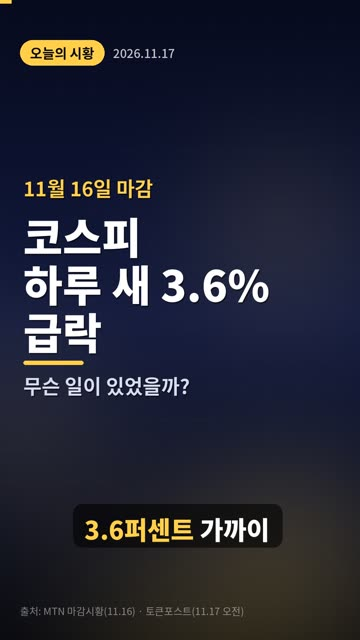
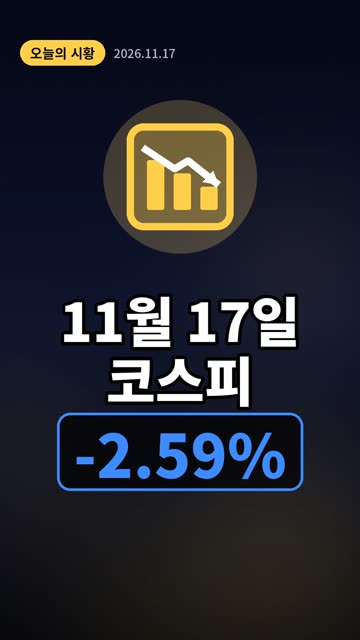
정보쇼츠 추가: 코스피 -2.59% 급락, 4거래일 연속 하락 | 11월 17일 1분 시황

diff --git a/index.html b/index.html
@@ -25,7 +25,7 @@ details pre{white-space:pre-wrap;font:inherit;background:#0a0d18;padding:10px;bo
 <p class="s">매일 오후 5시쯤 새 쇼츠가 자동으로 올라옵니다. ⬇ 영상 받기 → 파일에 저장 → 사진에 저장 → YouTube 앱에서 업로드 → 📋 제목·설명·태그 붙여 넣기</p>
 <div class="tabs" id="tabs"></div><div id="list"></div><div class="toast" id="toast">복사됨 ✓</div></main>
 <script>
-const DATA=[{"cat": "life", "name": "life_phishing_20261117", "title": "보이스피싱 당했다면 이 순서대로! 112 → 지급정지 → 1332", "desc": "돈을 보냈거나 링크를 눌렀다면 바로 해야 할 일을 순서대로 정리했습니다.\n\n📌 출처\n- 토스뱅크, 「경찰청 보이스피싱 대처 매뉴얼」(경찰청·전기통신금융사기 통합대응단·금융감독원 자료 참고) https://www.tossbank.com/articles/police-voice-phishing-manual\n\n이 영상의 음성은 AI 음성(Microsoft 신경망 음성)이며, 화면과 배경음악은 채널이 직접 프로그램으로 만들었습니다.\n\n#보이스피싱 #보이스피싱대처 #지급정지 #스미싱 #명의도용 #생활꿀팁 #금융사기 #112", "tags": "보이스피싱, 보이스피싱 대처, 지급정지, 스미싱, 명의도용, 생활 꿀팁, 금융 사기, 112, 1332, 쇼츠", "date": "2026-11-17", "sec": 57.3, "mb": 8.9, "url": "https://github.com/yunsub2002/yscominformation/releases/download/info-20261117-1607/life_phishing_20261117.mp4", "thumb": "thumbs/life_phishing_20261117_thumb.jpg", "thumb_url": "https://github.com/yunsub2002/yscominformation/releases/download/info-20261117-1607/life_phishing_20261117_thumb.jpg", "stock": null}, {"cat": "stock", "name": "stock_000660_20261117", "title": "SK하이닉스 주가, 지금 어디쯤? 6개월 -44.5% | 종목 분석", "desc": "SK하이닉스의 최근 주가 흐름과 기간별 수익률, 가치 지표를 숫자로만 정리했습니다. (11월 17일 종가 기준)\n\n📌 출처\n- 네이버 증권 SK하이닉스 https://m.stock.naver.com/domestic/stock/000660/total\n\n⚠ 특정 종목의 매수·매도를 권하는 영상이 아닙니다. 투자 판단과 책임은 본인에게 있습니다.\n\n이 영상의 음성은 AI 음성(Microsoft 신경망 음성)이며, 화면과 배경음악은 채널이 직접 프로그램으로 만들었습니다.\n\n#SK하이닉스 #SK하이닉스주가 #SK하이닉스주식 #종목분석 #주식 #주가 #코스피 #주식공부", "tags": "SK하이닉스, SK하이닉스 주가, SK하이닉스 주식, 종목 분석, 주식, 주가, 코스피, 주식 공부, 재테크, 쇼츠", "date": "2026-11-17", "sec": 55.9, "mb": 8.2, "url": "https://github.com/yunsub2002/yscominformation/releases/download/info-20261117-1457/stock_000660_20261117.mp4", "thumb": "thumbs/stock_000660_20261117_thumb.jpg", "thumb_url": "https://github.com/yunsub2002/yscominformation/releases/download/info-20261117-1457/stock_000660_20261117_thumb.jpg", "stock": "000660"}, {"cat": "market", "name": "market_20261117", "title": "코스피 하루 만에 3.6% 급락, 이유 3가지 | 11월 17일 시황", "desc": "11월 16일 국내 증시 마감과 오늘 아침 코인 시세를 1분 안에 정리했습니다.\n\n📌 출처\n- MTN 머니투데이방송, 「AI 경계심에 국내 증시 흔들…코스피 3.59% 내린 5100.50 마감」(2026.11.16) https://news.mtn.co.kr/article/2026111616042473944\n- 토큰포스트, 「[아침 시황] 비트코인 8,922만원…」(2026.11.17 07:30) https://www.tokenpost.kr/news/cryptocurrency/439421\n\n⚠ 이 영상은 정보 제공용이며 투자 권유가 아닙니다. 투자 판단과 책임은 본인에게 있습니다.\n\n이 영상의 음성은 AI 음성(Microsoft 신경망 음성)이며, 화면과 배경음악은 채널이 직접 프로그램으로 만들었습니다.\n\n#코스피 #코스닥 #주식시황 #오늘의증시 #삼성전자 #SK하이닉스 #비트코인 #코인시세", "tags": "코스피, 코스닥, 주식 시황, 오늘의 증시, 삼성전자, SK하이닉스, 비트코인, 코인 시세, 엔비디아, 쇼츠", "date": "2026-11-17", "sec": 59.7, "mb": 8.8, "url": "https://github.com/yunsub2002/yscominformation/releases/download/info-20261117-seed/market_20261117.mp4", "thumb": "thumbs/market_20261117_thumb.jpg", "thumb_url": "https://github.com/yunsub2002/yscominformation/releases/download/info-20261117-seed/market_20261117_thumb.jpg", "stock": null}, {"cat": "stock", "name": "stock_samsung_20261117", "title": "삼성전자 분기 영업이익 107조, 그런데 주가는 왜? | 종목 분석", "desc": "삼성전자 2026년 3분기 실적과 최근 주가 흐름, 체크 포인트를 공개 자료로 정리했습니다.\n\n📌 출처\n- 삼성전자 뉴스룸, 「삼성전자, 2026년 3분기 실적 발표」(2026.10.29) https://news.samsung.com/kr/삼성전자-2026년-3분기-실적-발표\n- MTN 머니투데이방송, 「AI 경계심에 국내 증시 흔들…」(2026.11.16) https://news.mtn.co.kr/article/2026111616042473944\n\n⚠ 특정 종목의 매수·매도를 권하는 영상이 아닙니다. 투자 판단과 책임은 본인에게 있습니다.\n\n이 영상의 음성은 AI 음성(Microsoft 신경망 음성)이며, 화면과 배경음악은 채널이 직접 프로그램으로 만들었습니다.\n\n#삼성전자 #삼성전자주가 #삼성전자실적 #반도체 #HBM4 #종목분석 #주식 #배당", "tags": "삼성전자, 삼성전자 주가, 삼성전자 실적, 반도체, HBM4, 종목 분석, 주식, 배당, 코스피, 쇼츠", "date": "2026-11-17", "sec": 50.8, "mb": 7.0, "url": "https://github.com/yunsub2002/yscominformation/releases/download/info-20261117-seed/stock_samsung_20261117.mp4", "thumb": "thumbs/stock_samsung_20261117_thumb.jpg", "thumb_url": "https://github.com/yunsub2002/yscominformation/releases/download/info-20261117-seed/stock_samsung_20261117_thumb.jpg", "stock": null}, {"cat": "politics", "name": "politics_budget_20261117", "title": "821조 내년 예산안, 지금 어디까지 왔나 | 정치 브리핑", "desc": "2027년도 정부 예산안의 규모, 국회 심사 일정, 핵심 쟁점과 여야 입장을 보도 내용 그대로 1분에 정리했습니다.\n\n📌 출처\n- 뉴시스, 「막 오른 821조 예산 격돌…與 \"담대한 미래 투자\" 野 \"국가 채무 낮춰야\"」(2026.11.02) https://newsis.com/view/NISX20261101_0003849921\n- 뉴스1, 「예결위, 비경제부처 심사 이틀째…16일부터 예산소위 가동」(2026.11.12) https://www.news1.kr/politics/assembly/6350850\n\n⚠ 특정 정당을 지지하거나 반대하지 않으며, 보도된 사실과 각 당의 공식 입장을 요약했습니다.\n\n이 영상의 음성은 AI 음성(Microsoft 신경망 음성)이며, 화면과 배경음악은 채널이 직접 프로그램으로 만들었습니다.\n\n#예산안 #2027예산 #국회 #예결위 #미래대응기금 #정치뉴스 #국회일정 #나라살림", "tags": "예산안, 2027 예산, 국회, 예결위, 미래대응기금, 정치 뉴스, 국회 일정, 나라살림, 시사, 쇼츠", "date": "2026-11-17", "sec": 56.8, "mb": 8.5, "url": "https://github.com/yunsub2002/yscominformation/releases/download/info-20261117-seed/politics_budget_20261117.mp4", "thumb": "thumbs/politics_budget_20261117_thumb.jpg", "thumb_url": "https://github.com/yunsub2002/yscominformation/releases/download/info-20261117-seed/politics_budget_20261117_thumb.jpg", "stock": null}, {"cat": "life", "name": "life_heating", "title": "난방비 아끼는 법 5가지 (정부 공식 팁)", "desc": "실내온도·외출 모드·내복·뽁뽁이·보일러 점검까지, 정부가 알려 준 난방비 절약법을 1분으로 정리했습니다.\n\n📌 출처\n- 대한민국 정책브리핑, 「알쏭달쏭 난방비 절약법 Q&A」 https://www.korea.kr/news/policyNewsView.do?newsId=148845570\n\n이 영상의 음성은 AI 음성(Microsoft 신경망 음성)이며, 화면과 배경음악은 채널이 직접 프로그램으로 만들었습니다.\n\n#난방비 #난방비절약 #겨울꿀팁 #생활꿀팁 #보일러 #뽁뽁이 #절약 #살림팁", "tags": "난방비, 난방비 절약, 겨울 꿀팁, 생활 꿀팁, 보일러, 뽁뽁이, 절약, 살림 팁, 관리비, 쇼츠", "date": "2026-11-17", "sec": 49.3, "mb": 6.4, "url": "https://github.com/yunsub2002/yscominformation/releases/download/info-20261117-seed/life_heating.mp4", "thumb": "thumbs/life_heating_thumb.jpg", "thumb_url": "https://github.com/yunsub2002/yscominformation/releases/download/info-20261117-seed/life_heating_thumb.jpg", "stock": null}],TABS=[["market", "오늘의 시황", "#ffcf4a"], ["stock", "종목 분석", "#4ab0ff"], ["life", "생활 꿀팁", "#2ee6a6"], ["politics", "정치 브리핑", "#b49cff"]];let cur='all';try{cur=localStorage.getItem('tab')||'all'}catch(e){}
+const DATA=[{"cat": "market", "name": "market_20261117", "title": "코스피 -2.59% 급락, 4거래일 연속 하락 | 11월 17일 1분 시황", "desc": "11월 17일 국내 증시 마감 숫자를 1분으로 정리했습니다. (지수·한 달 흐름·수급·대형주·환율·코인)\n\n📌 출처\n- 네이버 증권 (지수·투자자별 매매·환율·종목 시세) https://m.stock.naver.com\n- 업비트 (코인 시세, 전일 대비) https://upbit.com\n\n⚠ 정보 제공용 영상이며 투자 권유가 아닙니다. 투자 판단과 책임은 본인에게 있습니다.\n\n이 영상의 음성은 AI 음성(Microsoft 신경망 음성)이며, 화면과 배경음악은 채널이 직접 프로그램으로 만들었습니다.\n\n#코스피 #코스닥 #주식시황 #오늘의증시 #증시마감 #환율 #비트코인 #코인시세", "tags": "코스피, 코스닥, 주식 시황, 오늘의 증시, 증시 마감, 환율, 비트코인, 코인 시세, 주식, 쇼츠", "date": "2026-11-17", "sec": 57.3, "mb": 10.3, "url": "https://github.com/yunsub2002/yscominformation/releases/download/info-20261117-1803/market_20261117.mp4", "thumb": "thumbs/market_20261117_thumb.jpg", "thumb_url": "https://github.com/yunsub2002/yscominformation/releases/download/info-20261117-1803/market_20261117_thumb.jpg", "stock": null}, {"cat": "life", "name": "life_phishing_20261117", "title": "보이스피싱 당했다면 이 순서대로! 112 → 지급정지 → 1332", "desc": "돈을 보냈거나 링크를 눌렀다면 바로 해야 할 일을 순서대로 정리했습니다.\n\n📌 출처\n- 토스뱅크, 「경찰청 보이스피싱 대처 매뉴얼」(경찰청·전기통신금융사기 통합대응단·금융감독원 자료 참고) https://www.tossbank.com/articles/police-voice-phishing-manual\n\n이 영상의 음성은 AI 음성(Microsoft 신경망 음성)이며, 화면과 배경음악은 채널이 직접 프로그램으로 만들었습니다.\n\n#보이스피싱 #보이스피싱대처 #지급정지 #스미싱 #명의도용 #생활꿀팁 #금융사기 #112", "tags": "보이스피싱, 보이스피싱 대처, 지급정지, 스미싱, 명의도용, 생활 꿀팁, 금융 사기, 112, 1332, 쇼츠", "date": "2026-11-17", "sec": 57.3, "mb": 8.9, "url": "https://github.com/yunsub2002/yscominformation/releases/download/info-20261117-1607/life_phishing_20261117.mp4", "thumb": "thumbs/life_phishing_20261117_thumb.jpg", "thumb_url": "https://github.com/yunsub2002/yscominformation/releases/download/info-20261117-1607/life_phishing_20261117_thumb.jpg", "stock": null}, {"cat": "stock", "name": "stock_000660_20261117", "title": "SK하이닉스 주가, 지금 어디쯤? 6개월 -44.5% | 종목 분석", "desc": "SK하이닉스의 최근 주가 흐름과 기간별 수익률, 가치 지표를 숫자로만 정리했습니다. (11월 17일 종가 기준)\n\n📌 출처\n- 네이버 증권 SK하이닉스 https://m.stock.naver.com/domestic/stock/000660/total\n\n⚠ 특정 종목의 매수·매도를 권하는 영상이 아닙니다. 투자 판단과 책임은 본인에게 있습니다.\n\n이 영상의 음성은 AI 음성(Microsoft 신경망 음성)이며, 화면과 배경음악은 채널이 직접 프로그램으로 만들었습니다.\n\n#SK하이닉스 #SK하이닉스주가 #SK하이닉스주식 #종목분석 #주식 #주가 #코스피 #주식공부", "tags": "SK하이닉스, SK하이닉스 주가, SK하이닉스 주식, 종목 분석, 주식, 주가, 코스피, 주식 공부, 재테크, 쇼츠", "date": "2026-11-17", "sec": 55.9, "mb": 8.2, "url": "https://github.com/yunsub2002/yscominformation/releases/download/info-20261117-1457/stock_000660_20261117.mp4", "thumb": "thumbs/stock_000660_20261117_thumb.jpg", "thumb_url": "https://github.com/yunsub2002/yscominformation/releases/download/info-20261117-1457/stock_000660_20261117_thumb.jpg", "stock": "000660"}, {"cat": "market", "name": "market_20261117", "title": "코스피 하루 만에 3.6% 급락, 이유 3가지 | 11월 17일 시황", "desc": "11월 16일 국내 증시 마감과 오늘 아침 코인 시세를 1분 안에 정리했습니다.\n\n📌 출처\n- MTN 머니투데이방송, 「AI 경계심에 국내 증시 흔들…코스피 3.59% 내린 5100.50 마감」(2026.11.16) https://news.mtn.co.kr/article/2026111616042473944\n- 토큰포스트, 「[아침 시황] 비트코인 8,922만원…」(2026.11.17 07:30) https://www.tokenpost.kr/news/cryptocurrency/439421\n\n⚠ 이 영상은 정보 제공용이며 투자 권유가 아닙니다. 투자 판단과 책임은 본인에게 있습니다.\n\n이 영상의 음성은 AI 음성(Microsoft 신경망 음성)이며, 화면과 배경음악은 채널이 직접 프로그램으로 만들었습니다.\n\n#코스피 #코스닥 #주식시황 #오늘의증시 #삼성전자 #SK하이닉스 #비트코인 #코인시세", "tags": "코스피, 코스닥, 주식 시황, 오늘의 증시, 삼성전자, SK하이닉스, 비트코인, 코인 시세, 엔비디아, 쇼츠", "date": "2026-11-17", "sec": 59.7, "mb": 8.8, "url": "https://github.com/yunsub2002/yscominformation/releases/download/info-20261117-seed/market_20261117.mp4", "thumb": "thumbs/market_20261117_thumb.jpg", "thumb_url": "https://github.com/yunsub2002/yscominformation/releases/download/info-20261117-seed/market_20261117_thumb.jpg", "stock": null}, {"cat": "stock", "name": "stock_samsung_20261117", "title": "삼성전자 분기 영업이익 107조, 그런데 주가는 왜? | 종목 분석", "desc": "삼성전자 2026년 3분기 실적과 최근 주가 흐름, 체크 포인트를 공개 자료로 정리했습니다.\n\n📌 출처\n- 삼성전자 뉴스룸, 「삼성전자, 2026년 3분기 실적 발표」(2026.10.29) https://news.samsung.com/kr/삼성전자-2026년-3분기-실적-발표\n- MTN 머니투데이방송, 「AI 경계심에 국내 증시 흔들…」(2026.11.16) https://news.mtn.co.kr/article/2026111616042473944\n\n⚠ 특정 종목의 매수·매도를 권하는 영상이 아닙니다. 투자 판단과 책임은 본인에게 있습니다.\n\n이 영상의 음성은 AI 음성(Microsoft 신경망 음성)이며, 화면과 배경음악은 채널이 직접 프로그램으로 만들었습니다.\n\n#삼성전자 #삼성전자주가 #삼성전자실적 #반도체 #HBM4 #종목분석 #주식 #배당", "tags": "삼성전자, 삼성전자 주가, 삼성전자 실적, 반도체, HBM4, 종목 분석, 주식, 배당, 코스피, 쇼츠", "date": "2026-11-17", "sec": 50.8, "mb": 7.0, "url": "https://github.com/yunsub2002/yscominformation/releases/download/info-20261117-seed/stock_samsung_20261117.mp4", "thumb": "thumbs/stock_samsung_20261117_thumb.jpg", "thumb_url": "https://github.com/yunsub2002/yscominformation/releases/download/info-20261117-seed/stock_samsung_20261117_thumb.jpg", "stock": null}, {"cat": "politics", "name": "politics_budget_20261117", "title": "821조 내년 예산안, 지금 어디까지 왔나 | 정치 브리핑", "desc": "2027년도 정부 예산안의 규모, 국회 심사 일정, 핵심 쟁점과 여야 입장을 보도 내용 그대로 1분에 정리했습니다.\n\n📌 출처\n- 뉴시스, 「막 오른 821조 예산 격돌…與 \"담대한 미래 투자\" 野 \"국가 채무 낮춰야\"」(2026.11.02) https://newsis.com/view/NISX20261101_0003849921\n- 뉴스1, 「예결위, 비경제부처 심사 이틀째…16일부터 예산소위 가동」(2026.11.12) https://www.news1.kr/politics/assembly/6350850\n\n⚠ 특정 정당을 지지하거나 반대하지 않으며, 보도된 사실과 각 당의 공식 입장을 요약했습니다.\n\n이 영상의 음성은 AI 음성(Microsoft 신경망 음성)이며, 화면과 배경음악은 채널이 직접 프로그램으로 만들었습니다.\n\n#예산안 #2027예산 #국회 #예결위 #미래대응기금 #정치뉴스 #국회일정 #나라살림", "tags": "예산안, 2027 예산, 국회, 예결위, 미래대응기금, 정치 뉴스, 국회 일정, 나라살림, 시사, 쇼츠", "date": "2026-11-17", "sec": 56.8, "mb": 8.5, "url": "https://github.com/yunsub2002/yscominformation/releases/download/info-20261117-seed/politics_budget_20261117.mp4", "thumb": "thumbs/politics_budget_20261117_thumb.jpg", "thumb_url": "https://github.com/yunsub2002/yscominformation/releases/download/info-20261117-seed/politics_budget_20261117_thumb.jpg", "stock": null}, {"cat": "life", "name": "life_heating", "title": "난방비 아끼는 법 5가지 (정부 공식 팁)", "desc": "실내온도·외출 모드·내복·뽁뽁이·보일러 점검까지, 정부가 알려 준 난방비 절약법을 1분으로 정리했습니다.\n\n📌 출처\n- 대한민국 정책브리핑, 「알쏭달쏭 난방비 절약법 Q&A」 https://www.korea.kr/news/policyNewsView.do?newsId=148845570\n\n이 영상의 음성은 AI 음성(Microsoft 신경망 음성)이며, 화면과 배경음악은 채널이 직접 프로그램으로 만들었습니다.\n\n#난방비 #난방비절약 #겨울꿀팁 #생활꿀팁 #보일러 #뽁뽁이 #절약 #살림팁", "tags": "난방비, 난방비 절약, 겨울 꿀팁, 생활 꿀팁, 보일러, 뽁뽁이, 절약, 살림 팁, 관리비, 쇼츠", "date": "2026-11-17", "sec": 49.3, "mb": 6.4, "url": "https://github.com/yunsub2002/yscominformation/releases/download/info-20261117-seed/life_heating.mp4", "thumb": "thumbs/life_heating_thumb.jpg", "thumb_url": "https://github.com/yunsub2002/yscominformation/releases/download/info-20261117-seed/life_heating_thumb.jpg", "stock": null}],TABS=[["market", "오늘의 시황", "#ffcf4a"], ["stock", "종목 분석", "#4ab0ff"], ["life", "생활 꿀팁", "#2ee6a6"], ["politics", "정치 브리핑", "#b49cff"]];let cur='all';try{cur=localStorage.getItem('tab')||'all'}catch(e){}
 const esc=s=>String(s).replace(/[&<>"]/g,c=>({'&':'&amp;','<':'&lt;','>':'&gt;','"':'&quot;'}[c]));
 function toast(){const t=document.getElementById('toast');t.classList.add('on');setTimeout(()=>t.classList.remove('on'),1200)}
 function copy(t){if(navigator.clipboard){navigator.clipboard.writeText(t).then(toast,fb)}else fb();function fb(){const a=document.createElement('textarea');a.value=t;a.style.position='fixed';a.style.opacity=0;document.body.appendChild(a);a.select();try{document.execCommand('copy');toast()}catch(e){}a.remove()}}
